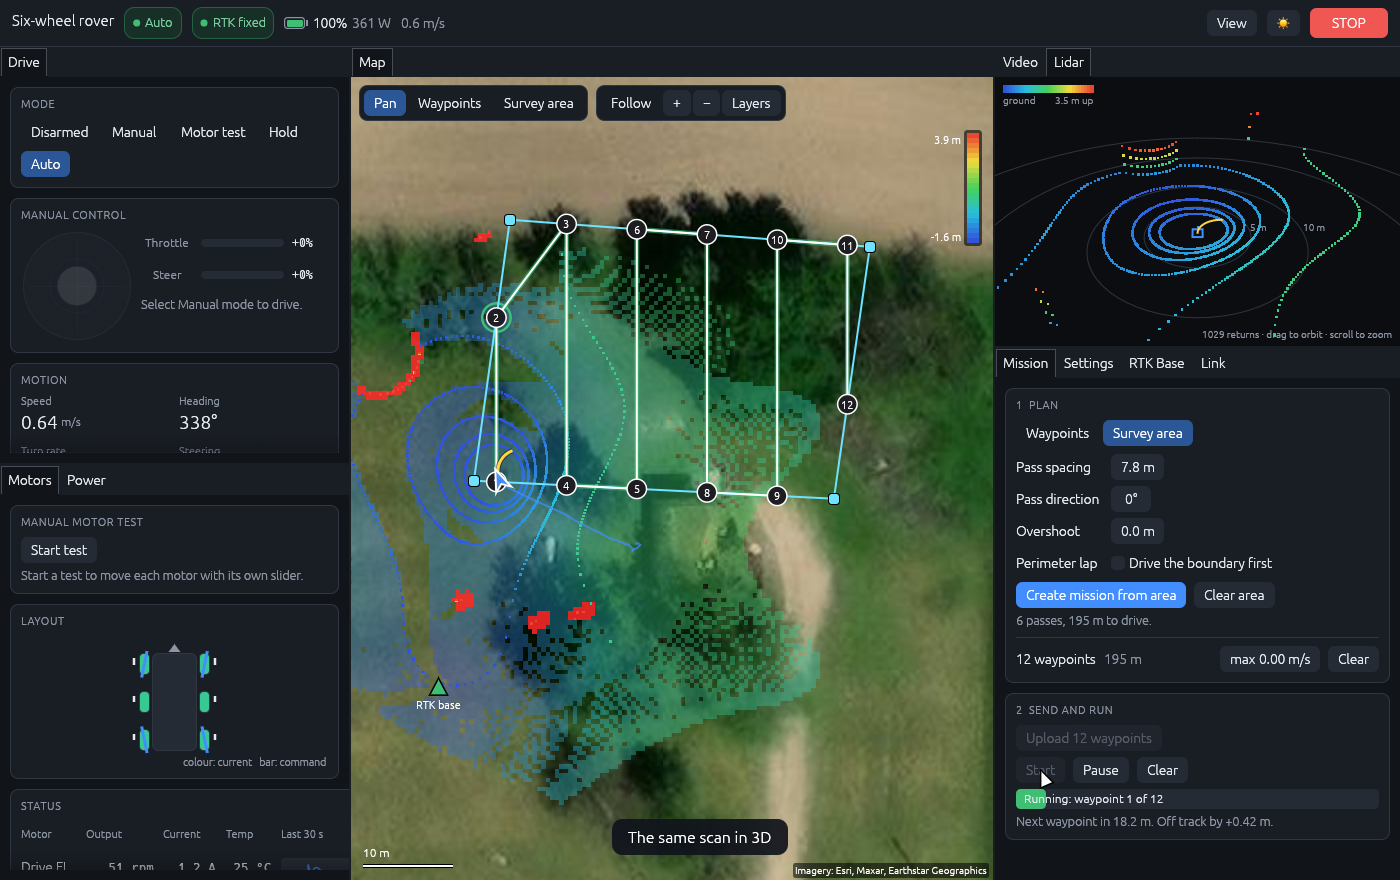
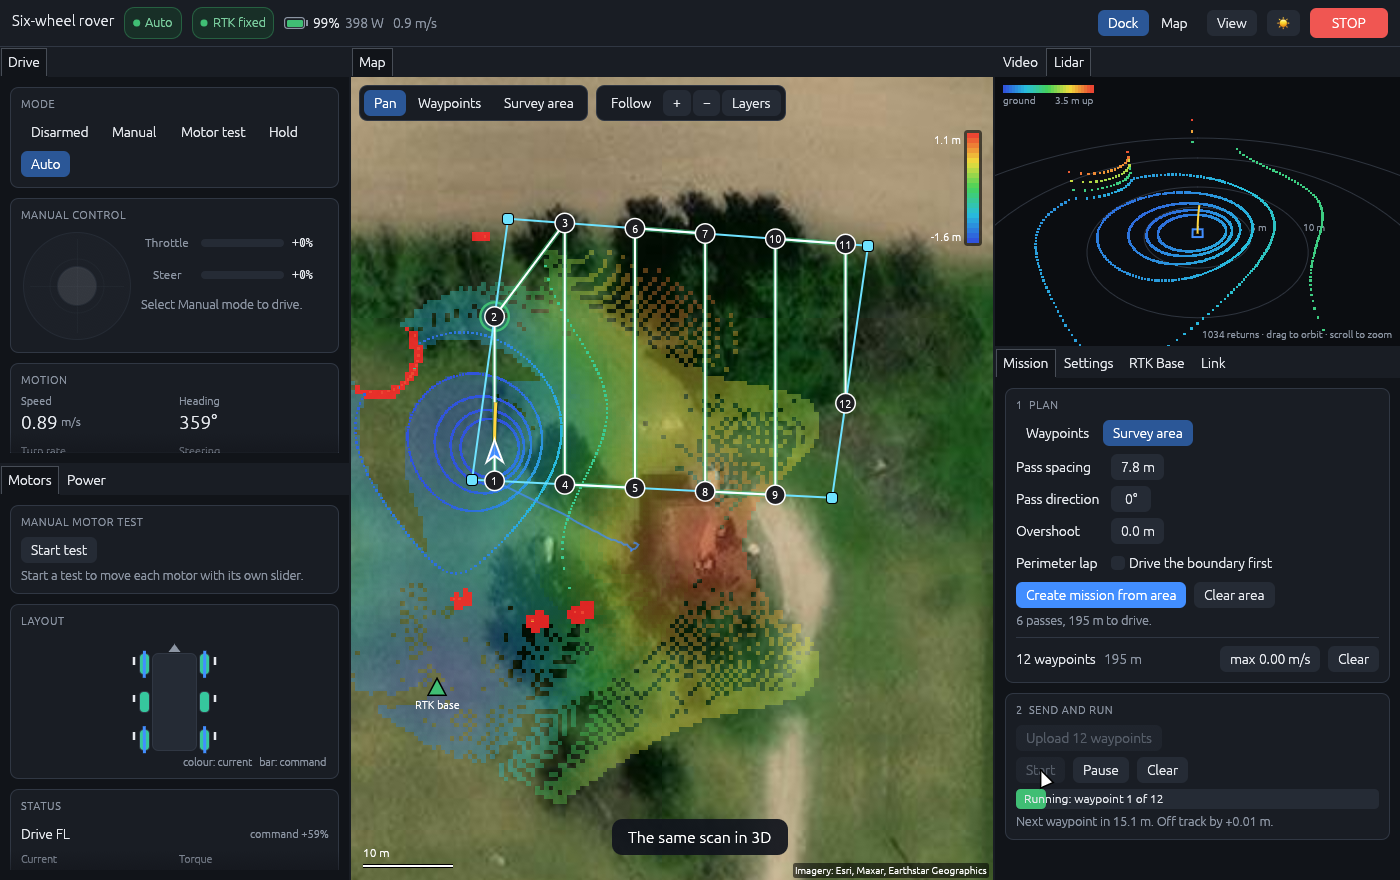
Re-record screenshots and walkthroughs, add a fleet clip
- Retake the dark and light screenshots and all five clips so they show
  the new Motors readout and the Dock | Map switch
- Add docs/media/fleet.gif; the fleet demo now stops the map following
  the vehicle, which keeps the recording small

diff --git a/apps/station/src/demo.rs b/apps/station/src/demo.rs
@@ -168,22 +168,21 @@ pub fn script(name: &str) -> Option<Vec<Step>> {
             Wait(3.0),
             Caption("Several vehicles on one link. The map layout keeps the map behind everything"),
             Click("layout.map"),
-            Wait(1.5),
+            Wait(1.0),
+            // Dragging the map stops it following the vehicle, which keeps a recording small.
+            MapDrag((10.0, -8.0), (9.0, -11.0)),
             Click("mode.Manual"),
             Settled(label::MODE),
-            Drag("drive.stick", (0.0, 0.0), (0.35, -0.7), 4.0),
+            Drag("drive.stick", (0.0, 0.0), (0.35, -0.7), 3.5),
             Caption("Pick another vehicle from the list, or click it on the map"),
             Click("vehicle.1"),
-            Wait(1.0),
+            MapDrag((10.0, -8.0), (9.0, -9.0)),
             Click("mode.Manual"),
             Settled(label::MODE),
-            Drag("drive.stick", (0.0, 0.0), (-0.3, -0.75), 4.0),
             Caption("Any panel floats over the map: current, torque, speed and temperature per motor"),
             Show("Motors"),
-            Wait(1.0),
             Drag("drive.stick", (0.0, 0.0), (0.5, -0.7), 5.0),
-            Click("vehicle.2"),
-            Wait(2.5),
+            Wait(1.0),
             Caption("STOP ALL stops every vehicle at once"),
             Click("stop_all"),
             Wait(3.0),

diff --git a/README.md b/README.md
@@ -49,6 +49,11 @@ the link cut, and the retry.
 
 ![Verified settings walkthrough](docs/media/verified-settings.gif)
 
+**Several vehicles in the map layout** (rover, tractor and skid steer): switch layout,
+drive one, select another, open the Motors panel over the map, STOP ALL.
+
+![Fleet walkthrough](docs/media/fleet.gif)
+
 **Switching theme** (skid steer):
 
 ![Theme walkthrough](docs/media/themes.gif)
@@ -75,6 +80,8 @@ To re-record a clip (release build recommended):
 ```sh
 cargo run --release -p station -- --size 1180x800 --vehicle tractor --demo survey \
     --fps 6 --record docs/media/survey.gif
+cargo run --release -p station -- --size 1180x800 --vehicle rover6,tractor,skid --demo fleet \
+    --fps 6 --record docs/media/fleet.gif
 ```
 
 The type of the selected simulated vehicle can also be changed from the **Link** panel
